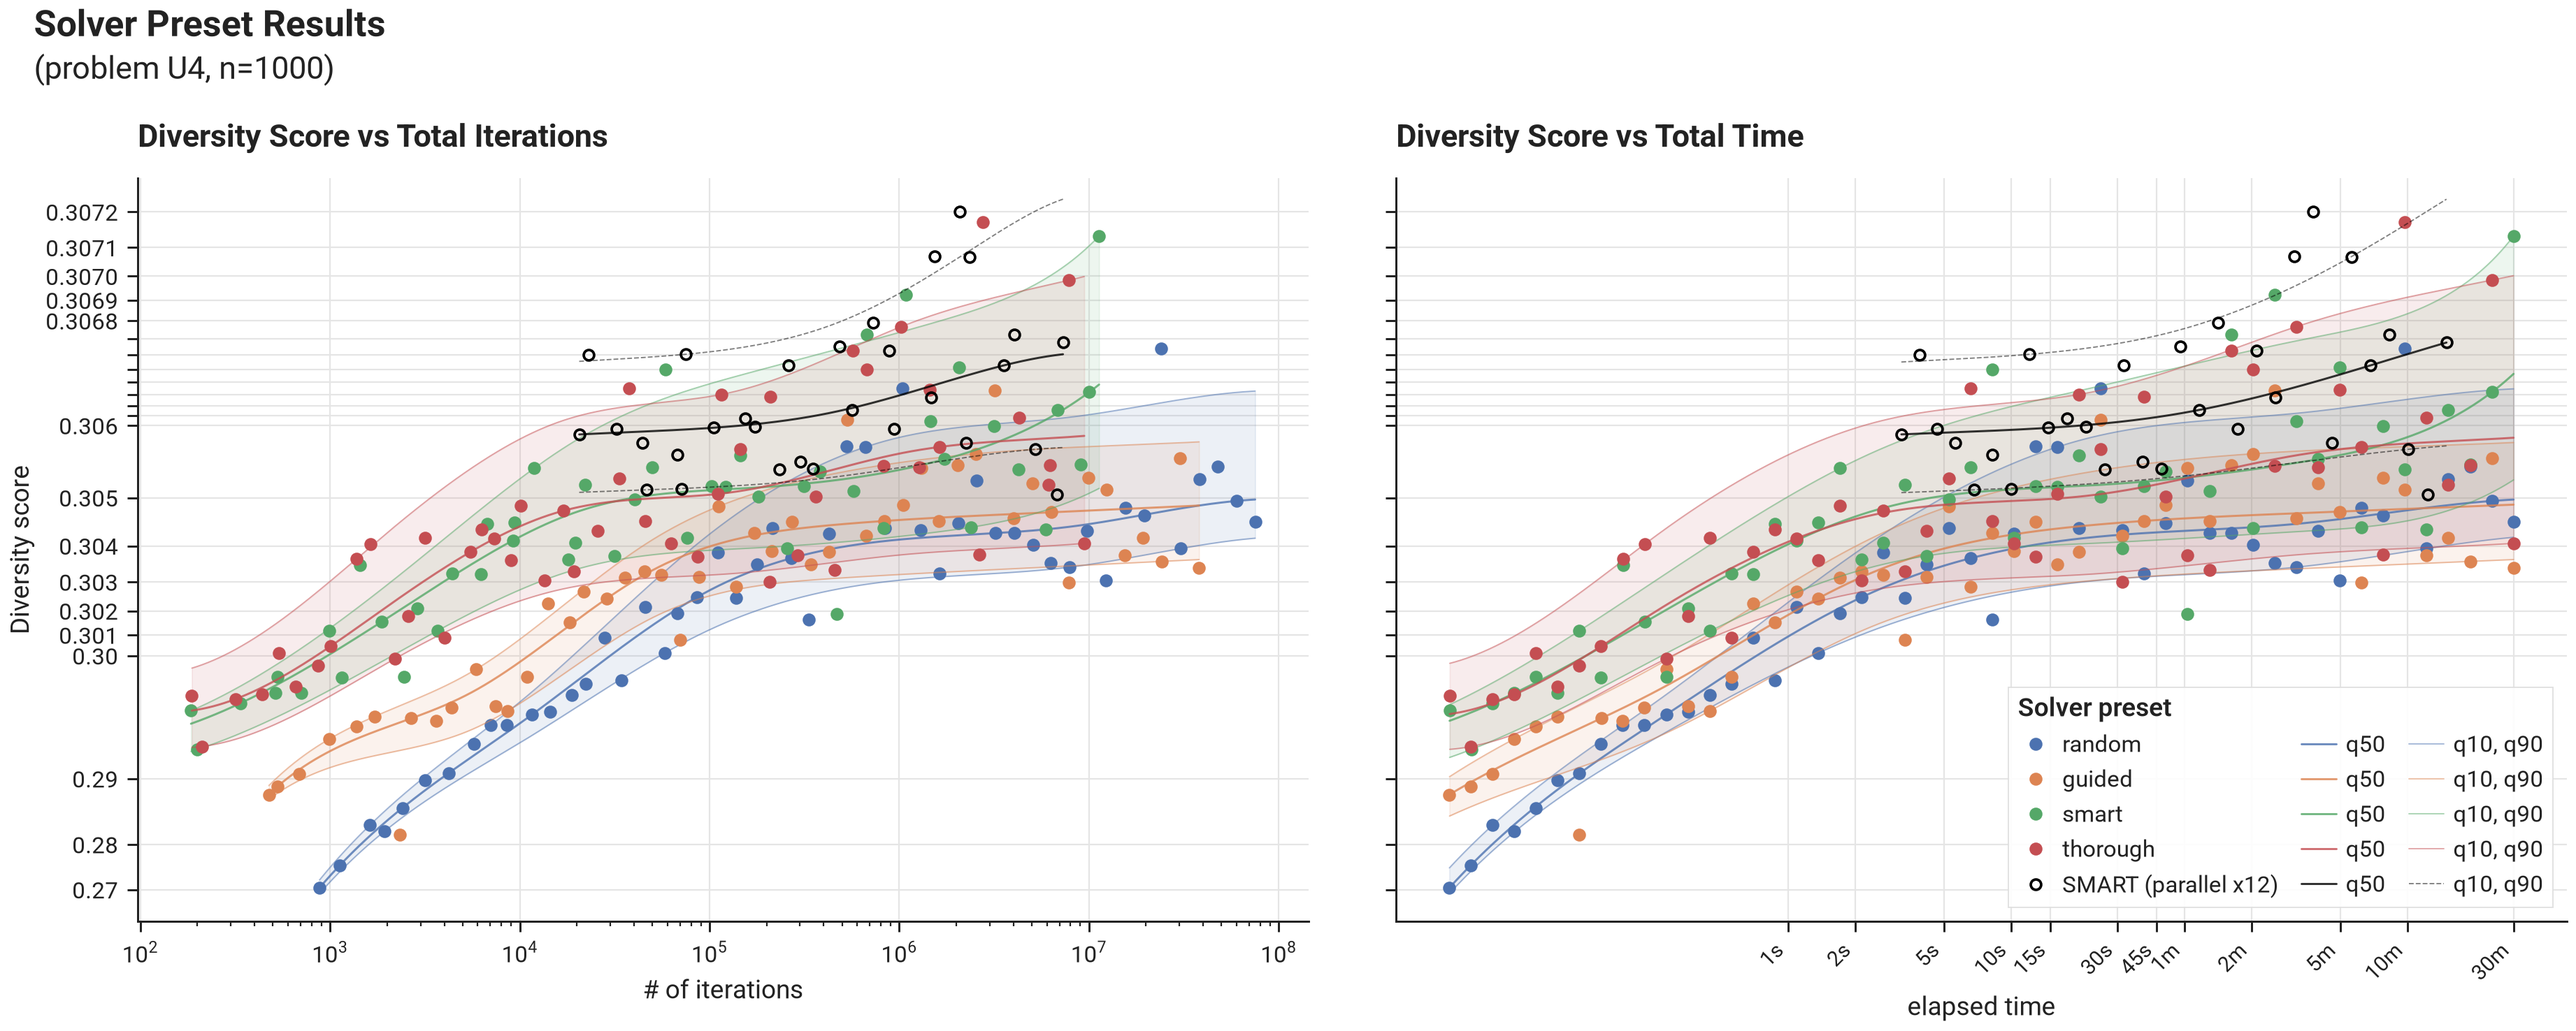
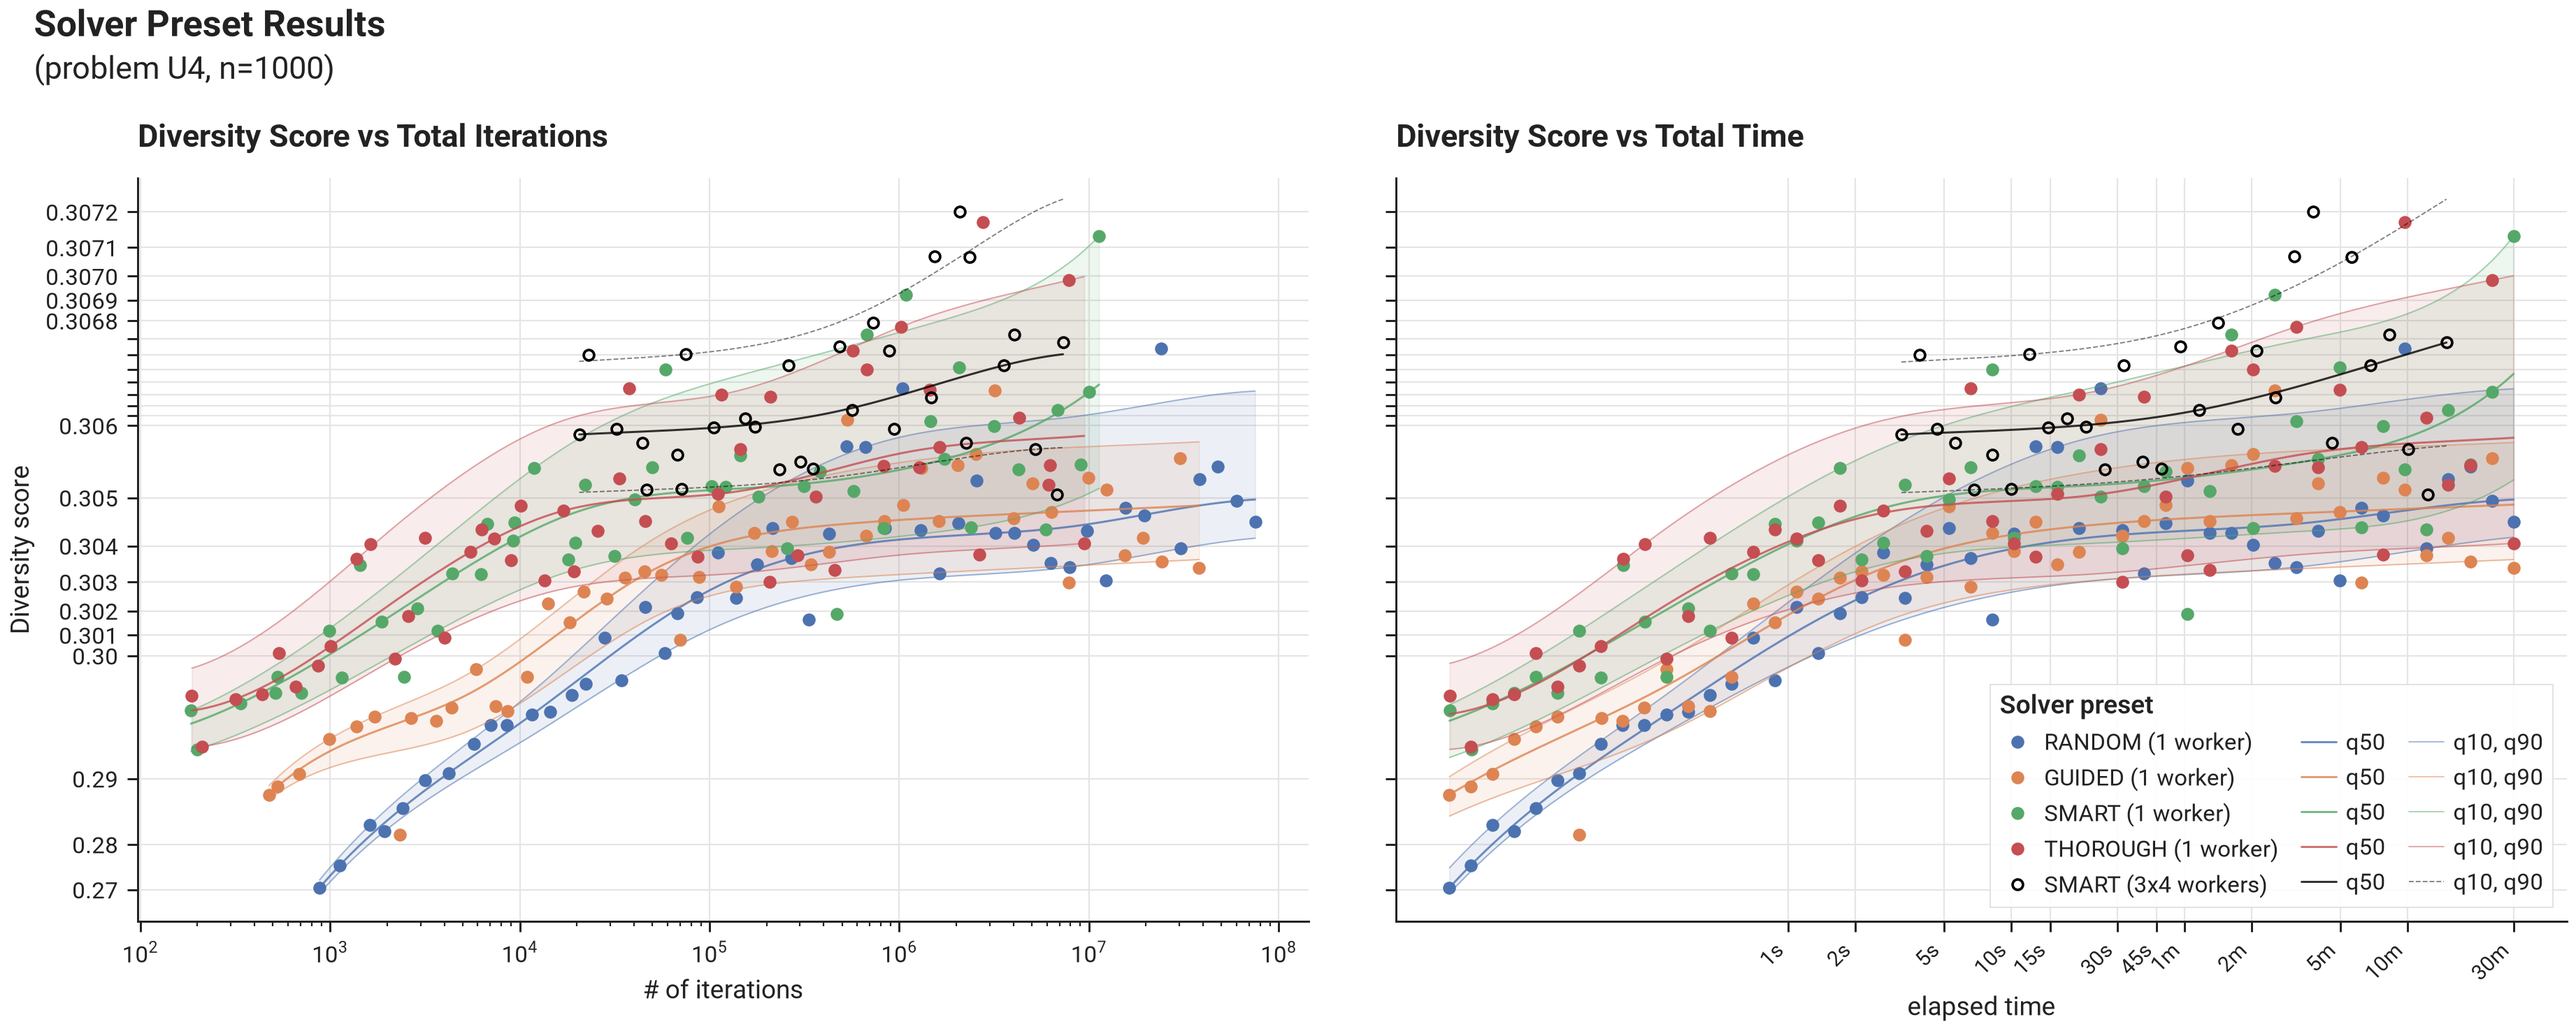
docs: state the worker layout in preset result labels
Legend and table labels align as 'PRESET (1 worker)' / 'SMART (3x4 workers)', computed from the shipped default grouping; quantile-table headers put the worker layout on a second line.

Changed region(s): [[0.7802, 0.6545, 0.9986, 0.8726]]

diff --git a/src/max_div/_core/_cli/benchmarks/solver_presets/_models.py b/src/max_div/_core/_cli/benchmarks/solver_presets/_models.py
@@ -5,6 +5,7 @@ import json
 from dataclasses import asdict, dataclass
 
 from max_div._core.solver import Score, SolverPreset, TargetTimeDuration
+from max_div._core.solver._parallel._solver import default_group_count
 
 
 # =================================================================================================
@@ -32,9 +33,19 @@ class SolverPresetBenchmarkParams:
         return self.n_workers > 1
 
     def column_label(self) -> str:
-        """Return the label identifying this run's results column in reports."""
+        """Return the label identifying this run's results column in reports.
+
+        The bracket part states the worker layout: "(1 worker)" for a single solve,
+        "(3x4 workers)" for a parallel solve with 3 groups of 4 workers, falling back to
+        "(12 workers, 5 groups)" when the default grouping does not divide evenly.
+        """
         label = self.preset.value.upper()
-        return f"{label} (parallel x{self.n_workers})" if self.is_parallel else label
+        if not self.is_parallel:
+            return f"{label} (1 worker)"
+        n_groups = default_group_count(self.n_workers)
+        if self.n_workers % n_groups == 0:
+            return f"{label} ({n_groups}x{self.n_workers // n_groups} workers)"
+        return f"{label} ({self.n_workers} workers, {n_groups} groups)"
 
     def to_dict(self) -> dict:
         return {

diff --git a/local/docs/figures/fig_bm_problems_preset_results.py b/local/docs/figures/fig_bm_problems_preset_results.py
@@ -146,13 +146,14 @@ def create_single_figure(
                 # a preset may be absent from a partial run; skip it rather than reducing over empties
                 if not x:
                     continue
+                preset_label = f"{preset.value.upper()} (1 worker)"
 
                 # --- plot data ---
                 if use_y_transform:
                     y_trans = y_transform.f(y)
-                    h = ax.plot(x, y_trans, label=preset.value, linestyle="None", marker="o")
+                    h = ax.plot(x, y_trans, label=preset_label, linestyle="None", marker="o")
                 else:
-                    h = ax.plot(x, y, label=preset.value, linestyle="None", marker="o")
+                    h = ax.plot(x, y, label=preset_label, linestyle="None", marker="o")
                     if y_axis == "constraint_score" and min(y) == 1.0:
                         ax.set_ylim([0.0, 1.1])
                 color = h[0].get_color()
@@ -173,7 +174,7 @@ def create_single_figure(
                     # Add to quantiles table for markdown generation
                     quantiles_table.add_quantile_curves(
                         quantile_curves=quantile_curves,
-                        column=preset.value.upper(),
+                        column=preset_label,
                         x_axis=x_axis,
                         y_axis=y_axis,
                     )

diff --git a/local/docs/utils/preset_quantiles_table.py b/local/docs/utils/preset_quantiles_table.py
@@ -19,6 +19,12 @@ class _QuantileCurvesEntry:
     y_axis: Literal["constraint_score", "diversity_score"]
 
 
+def _split_header(column: str) -> str:
+    """Render a column label as a two-line table header, backticked name above the bracket part."""
+    name, bracket = column.split(" (", 1)
+    return f"`{name}`<br>({bracket}"
+
+
 class PresetQuantilesTable:
     """
     A class to generate Markdown tables with quantile data for solver presets.
@@ -134,8 +140,9 @@ class PresetQuantilesTable:
 
             row_x_values, row_labels = self._get_row_x_values_and_labels(x_axis, max_x)
 
-            # Create table with one column per result series
-            table_headers = [x_title] + [f"`{column}`" for column in all_columns]
+            # Create table with one column per result series; the worker-layout bracket goes
+            # on a second header line so column widths stay driven by the preset name
+            table_headers = [x_title] + [_split_header(column) for column in all_columns]
             table = Table(table_headers)
 
             # Fill table rows

diff --git a/tests/_core/_cli/benchmarks/solver_presets/test_models.py b/tests/_core/_cli/benchmarks/solver_presets/test_models.py
@@ -58,9 +58,9 @@ def test_params_parallel_fields():
 
     # --- act & assert -----------------
     assert not serial.is_parallel
-    assert serial.column_label() == "SMART"
+    assert serial.column_label() == "SMART (1 worker)"
     assert parallel.is_parallel
-    assert parallel.column_label() == "SMART (parallel x8)"
+    assert parallel.column_label() == "SMART (2x4 workers)"
 
     # dict roundtrip keeps the worker count; dicts predating the field load as single-worker
     assert SolverPresetBenchmarkParams.from_dict(parallel.to_dict()) == parallel

diff --git a/tests/_core/_cli/benchmarks/solver_presets/test_show.py b/tests/_core/_cli/benchmarks/solver_presets/test_show.py
@@ -54,5 +54,5 @@ def test_show_renders_ragged_parallel_arm(tmp_path: Path) -> None:
 
     # --- assert -----------------------
     text = out_file.read_text()
-    assert "SMART (parallel x8)" in text  # the arm gets its own column
+    assert "SMART (2x4 workers)" in text  # the parallel series gets its own column
     assert "—" in text  # the 0.5s row's parallel cell is a placeholder

diff --git a/docs/benchmarks/solver/results/preset_result_quantiles_U1_1000.md b/docs/benchmarks/solver/results/preset_result_quantiles_U1_1000.md
@@ -2,7 +2,7 @@
 
 (estimated q10...q90 ranges)
 
-| Total Iterations | `RANDOM`                                               | `GUIDED`                                               | `SMART`                                                | `THOROUGH`                                             | `SMART (parallel x12)`                                  |
+| Total Iterations | `RANDOM`<br>(1 worker)                                 | `GUIDED`<br>(1 worker)                                 | `SMART`<br>(1 worker)                                  | `THOROUGH`<br>(1 worker)                               | `SMART`<br>(3x4 workers)                                |
 | ---------------- | ------------------------------------------------------ | ------------------------------------------------------ | ------------------------------------------------------ | ------------------------------------------------------ | ------------------------------------------------------- |
 | 1_000            | <span style="color:#dd0000">**0.0(849...920)**</span>  | 0.1(095...130)                                         | <span style="color:#00aa00">**0.11(301...527)**</span> | <span style="color:#00aa00">**0.11(333...520)**</span> | -                                                       |
 | 2_000            | <span style="color:#dd0000">**0.09(348...945)**</span> | 0.11(144...457)                                        | <span style="color:#00aa00">**0.11(363...597)**</span> | <span style="color:#00aa00">**0.11(426...605)**</span> | -                                                       |
@@ -24,7 +24,7 @@
 
 (estimated q10...q90 ranges)
 
-| Total Time | `RANDOM`                                               | `GUIDED`                                               | `SMART`                                                | `THOROUGH`                                             | `SMART (parallel x12)`                                  |
+| Total Time | `RANDOM`<br>(1 worker)                                 | `GUIDED`<br>(1 worker)                                 | `SMART`<br>(1 worker)                                  | `THOROUGH`<br>(1 worker)                               | `SMART`<br>(3x4 workers)                                |
 | ---------- | ------------------------------------------------------ | ------------------------------------------------------ | ------------------------------------------------------ | ------------------------------------------------------ | ------------------------------------------------------- |
 | 10.0s      | <span style="color:#dd0000">**0.11(401...608)**</span> | 0.11(580...765)                                        | 0.11(584...751)                                        | 0.11(549...749)                                        | <span style="color:#00aa00">**0.117(035...928)**</span> |
 | 15.0s      | <span style="color:#dd0000">**0.11(423...626)**</span> | 0.11(596...775)                                        | 0.11(599...767)                                        | 0.11(567...763)                                        | <span style="color:#00aa00">**0.117(058...981)**</span> |

diff --git a/docs/benchmarks/solver/results/preset_result_quantiles_U4_1000.md b/docs/benchmarks/solver/results/preset_result_quantiles_U4_1000.md
@@ -2,7 +2,7 @@
 
 (estimated q10...q90 ranges)
 
-| Total Iterations | `RANDOM`                                               | `GUIDED`                                               | `SMART`                                                | `THOROUGH`                                             | `SMART (parallel x12)`                                 |
+| Total Iterations | `RANDOM`<br>(1 worker)                                 | `GUIDED`<br>(1 worker)                                 | `SMART`<br>(1 worker)                                  | `THOROUGH`<br>(1 worker)                               | `SMART`<br>(3x4 workers)                               |
 | ---------------- | ------------------------------------------------------ | ------------------------------------------------------ | ------------------------------------------------------ | ------------------------------------------------------ | ------------------------------------------------------ |
 | 1_000            | <span style="color:#dd0000">**0.27(196...532)**</span> | 0.29(129...423)                                        | <span style="color:#00aa00">**0.(298...301)**</span>   | <span style="color:#00aa00">**0.(298...303)**</span>   | -                                                      |
 | 2_000            | <span style="color:#dd0000">**0.28(276...597)**</span> | 0.29(283...652)                                        | <span style="color:#00aa00">**0.30(0...3)**</span>     | <span style="color:#00aa00">**0.30(0...4)**</span>     | -                                                      |
@@ -24,7 +24,7 @@
 
 (estimated q10...q90 ranges)
 
-| Total Time | `RANDOM`                                               | `GUIDED`                                               | `SMART`                                                | `THOROUGH`                                             | `SMART (parallel x12)`                                 |
+| Total Time | `RANDOM`<br>(1 worker)                                 | `GUIDED`<br>(1 worker)                                 | `SMART`<br>(1 worker)                                  | `THOROUGH`<br>(1 worker)                               | `SMART`<br>(3x4 workers)                               |
 | ---------- | ------------------------------------------------------ | ------------------------------------------------------ | ------------------------------------------------------ | ------------------------------------------------------ | ------------------------------------------------------ |
 | 10.0s      | <span style="color:#dd0000">**0.30(267...553)**</span> | <span style="color:#dd0000">**0.30(275...516)**</span> | 0.30(397...619)                                        | <span style="color:#dd0000">**0.30(313...623)**</span> | <span style="color:#00aa00">**0.30(516...659)**</span> |
 | 15.0s      | <span style="color:#dd0000">**0.30(288...572)**</span> | <span style="color:#dd0000">**0.30(291...531)**</span> | <span style="color:#dd0000">**0.30(402...628)**</span> | <span style="color:#dd0000">**0.30(318...626)**</span> | <span style="color:#00aa00">**0.30(520...662)**</span> |

diff --git a/docs/benchmarks/solver/results/preset_result_quantiles_U2_1000.md b/docs/benchmarks/solver/results/preset_result_quantiles_U2_1000.md
@@ -2,7 +2,7 @@
 
 (estimated q10...q90 ranges)
 
-| Total Iterations | `RANDOM`                                              | `GUIDED`                                              | `SMART`                                                | `THOROUGH`                                            | `SMART (parallel x12)`                                 |
+| Total Iterations | `RANDOM`<br>(1 worker)                                | `GUIDED`<br>(1 worker)                                | `SMART`<br>(1 worker)                                  | `THOROUGH`<br>(1 worker)                              | `SMART`<br>(3x4 workers)                               |
 | ---------------- | ----------------------------------------------------- | ----------------------------------------------------- | ------------------------------------------------------ | ----------------------------------------------------- | ------------------------------------------------------ |
 | 1_000            | <span style="color:#dd0000">**0.8(528...748)**</span> | 0.9(254...390)                                        | <span style="color:#00aa00">**0.9(629...738)**</span>  | <span style="color:#00aa00">**0.9(541...732)**</span> | -                                                      |
 | 2_000            | <span style="color:#dd0000">**0.(890...906)**</span>  | 0.9(340...507)                                        | <span style="color:#00aa00">**0.9(681...775)**</span>  | <span style="color:#00aa00">**0.9(582...760)**</span> | -                                                      |
@@ -24,7 +24,7 @@
 
 (estimated q10...q90 ranges)
 
-| Total Time | `RANDOM`                                               | `GUIDED`                                              | `SMART`                                                | `THOROUGH`                                            | `SMART (parallel x12)`                                 |
+| Total Time | `RANDOM`<br>(1 worker)                                 | `GUIDED`<br>(1 worker)                                | `SMART`<br>(1 worker)                                  | `THOROUGH`<br>(1 worker)                              | `SMART`<br>(3x4 workers)                               |
 | ---------- | ------------------------------------------------------ | ----------------------------------------------------- | ------------------------------------------------------ | ----------------------------------------------------- | ------------------------------------------------------ |
 | 10.0s      | <span style="color:#dd0000">**0.9(647...753)**</span>  | 0.9(715...810)                                        | 0.9(749...834)                                         | 0.9(701...821)                                        | <span style="color:#00aa00">**0.9(794...843)**</span>  |
 | 15.0s      | <span style="color:#dd0000">**0.9(661...761)**</span>  | 0.9(720...813)                                        | <span style="color:#00aa00">**0.9(759...840)**</span>  | 0.9(711...825)                                        | <span style="color:#00aa00">**0.98(001...473)**</span> |

diff --git a/docs/benchmarks/solver/results/preset_result_quantiles_U3_1000.md b/docs/benchmarks/solver/results/preset_result_quantiles_U3_1000.md
@@ -2,7 +2,7 @@
 
 (estimated q10...q90 ranges)
 
-| Total Iterations | `RANDOM`                                              | `GUIDED`                                              | `SMART`                                               | `THOROUGH`                                            | `SMART (parallel x12)`                                |
+| Total Iterations | `RANDOM`<br>(1 worker)                                | `GUIDED`<br>(1 worker)                                | `SMART`<br>(1 worker)                                 | `THOROUGH`<br>(1 worker)                              | `SMART`<br>(3x4 workers)                              |
 | ---------------- | ----------------------------------------------------- | ----------------------------------------------------- | ----------------------------------------------------- | ----------------------------------------------------- | ----------------------------------------------------- |
 | 1_000            | <span style="color:#dd0000">**3.(255...315)**</span>  | 3.(652...720)                                         | <span style="color:#00aa00">**3.7(440...827)**</span> | <span style="color:#00aa00">**3.7(331...809)**</span> | -                                                     |
 | 2_000            | <span style="color:#dd0000">**3.4(121...846)**</span> | 3.(696...750)                                         | <span style="color:#00aa00">**3.7(576...929)**</span> | <span style="color:#00aa00">**3.7(433...889)**</span> | -                                                     |
@@ -24,7 +24,7 @@
 
 (estimated q10...q90 ranges)
 
-| Total Time | `RANDOM`                                              | `GUIDED`                                             | `SMART`                                              | `THOROUGH`                                            | `SMART (parallel x12)`                                |
+| Total Time | `RANDOM`<br>(1 worker)                                | `GUIDED`<br>(1 worker)                               | `SMART`<br>(1 worker)                                | `THOROUGH`<br>(1 worker)                              | `SMART`<br>(3x4 workers)                              |
 | ---------- | ----------------------------------------------------- | ---------------------------------------------------- | ---------------------------------------------------- | ----------------------------------------------------- | ----------------------------------------------------- |
 | 10.0s      | <span style="color:#dd0000">**3.7(589...931)**</span> | <span style="color:#dd0000">**3.(776...802)**</span> | 3.(784...807)                                        | <span style="color:#dd0000">**3.(775...807)**</span>  | <span style="color:#00aa00">**3.(798...811)**</span>  |
 | 15.0s      | <span style="color:#dd0000">**3.7(624...949)**</span> | <span style="color:#dd0000">**3.(778...803)**</span> | 3.(784...807)                                        | <span style="color:#dd0000">**3.(778...809)**</span>  | <span style="color:#00aa00">**3.8(00...12)**</span>   |
